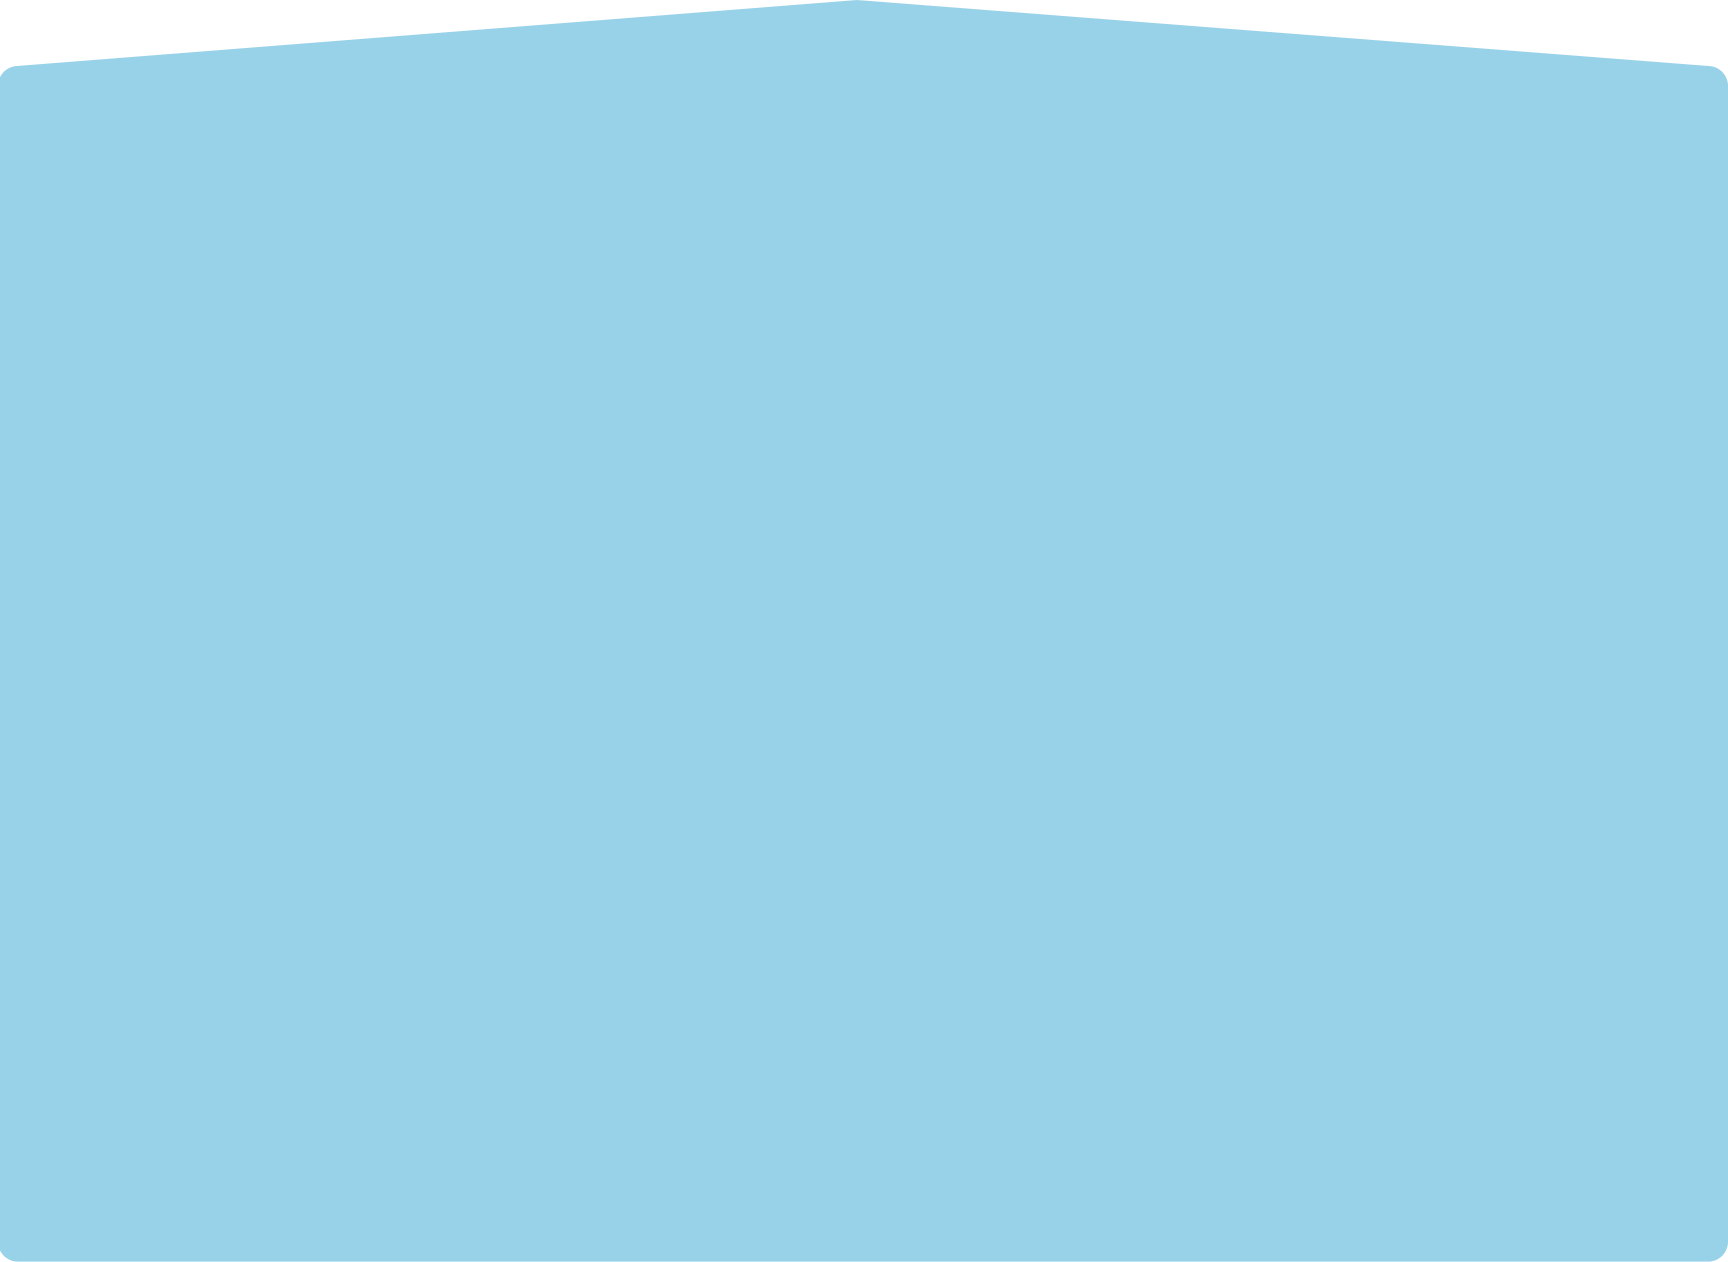
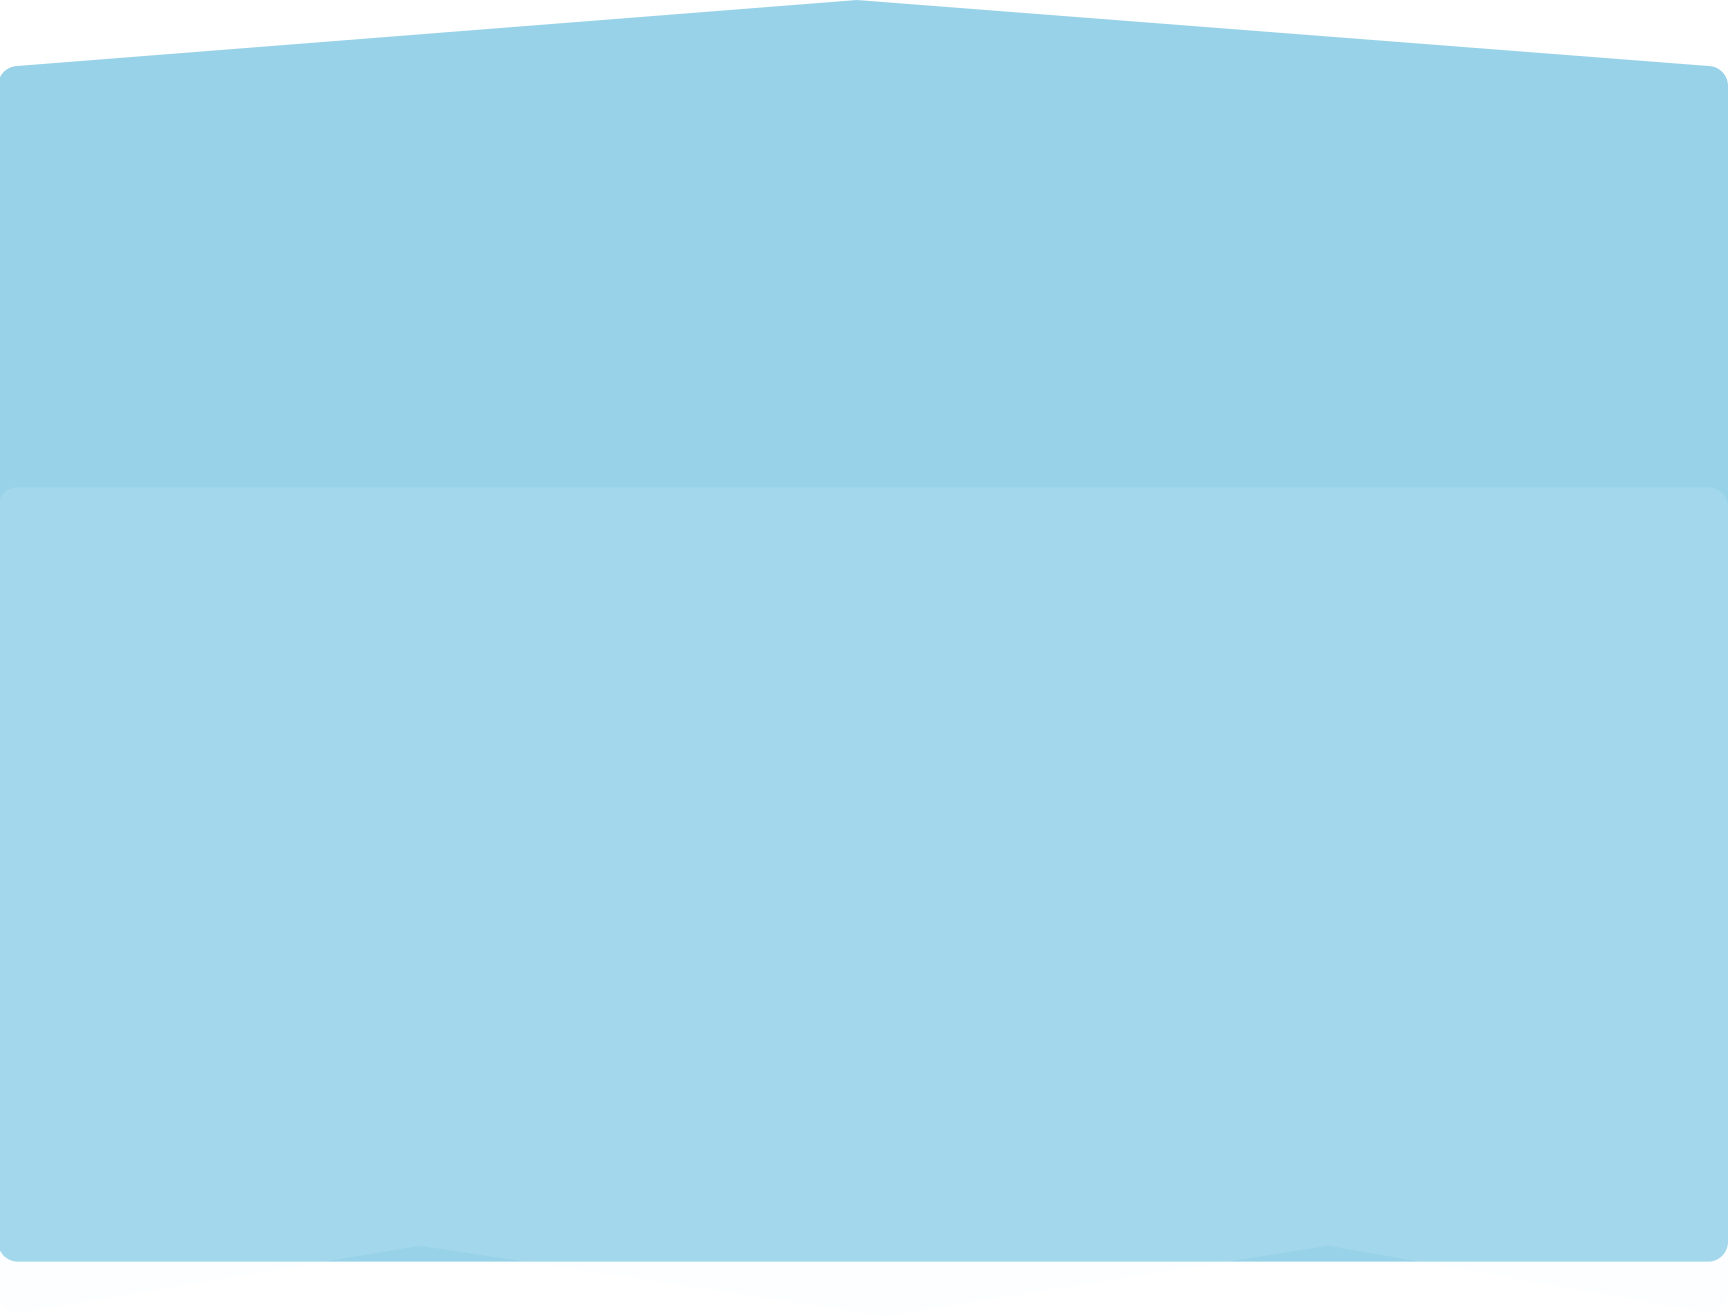
save

Changed region(s): [[0.0, 0.958, 1.0, 1.0]]

diff --git a/main.css b/main.css
@@ -399,17 +399,17 @@ body{
 
 .second-page{
     max-width: 100%;
-    min-height: 62rem;
+    min-height: 65rem;
     background-image: url("assets/img/second-bk.png");
     background-position: center; 
     background-repeat: no-repeat;
     background-size: 100% auto;
     margin-top: -4rem;
+    /* background-color: #FF8B49; */
 }
 
 .first-half{
     width: 100%;
-    height: 20rem;
     display: flex;
 }
 
@@ -447,6 +447,7 @@ body{
     border-radius: 5px;
     width: 83.5%;
     padding: 0.5em 0;
+    margin-bottom: 2rem;
 }
 
 .ultra-b{
@@ -458,8 +459,8 @@ body{
     font-family: 'Outfit';
     font-style: normal;
     font-weight: bold;
-    font-size: 3rem;
-    line-height: 75px;
+    font-size: 2.8rem;
+    line-height: 3.8rem;
     text-align: center;
     color: #000000;
     text-shadow: 0px 20.3682px 45.2626px rgba(0, 0, 0, 0.25);
@@ -490,4 +491,25 @@ body{
 
 .ultra-b:hover .arrow-pointer{
     visibility: visible;
+}
+
+.second-half{
+    margin-top: -35rem;
+    max-width: 100%;
+    display: flex;
+    justify-content: space-between;
+}
+
+.second-half img{
+    width: 22.8%;
+    height: 28rem;
+}
+
+.third-bk{
+    max-width: 100%;
+    min-height: 160rem;
+    background-image: url("assets/img/third-bk.png");
+    background-position: center; 
+    background-repeat: no-repeat;
+    background-size: 100% auto;
 }

diff --git a/index.html b/index.html
@@ -95,6 +95,14 @@
                 </div>     
             </div>
         </div>
+        <div class="second-half">
+            <img src="assets/img/frame-1.png" />
+            <img src="assets/img/frame-2.png" />
+            <img src="assets/img/frame-3.png" />
+            <img src="assets/img/frame-4.png" />
+        </div>
+        <div class="third-bk"></div>
+        
         <script src="script.js"></script>
     </body>
 </html>
